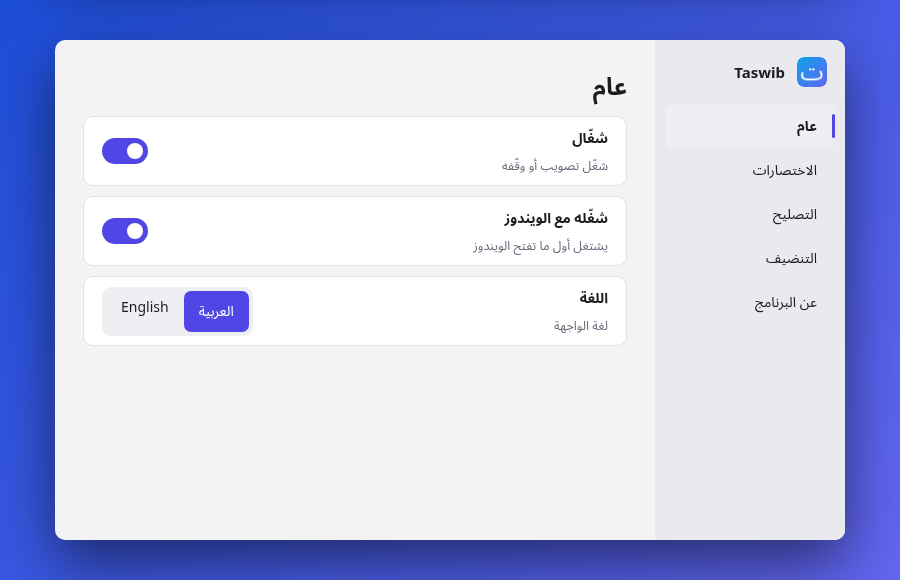
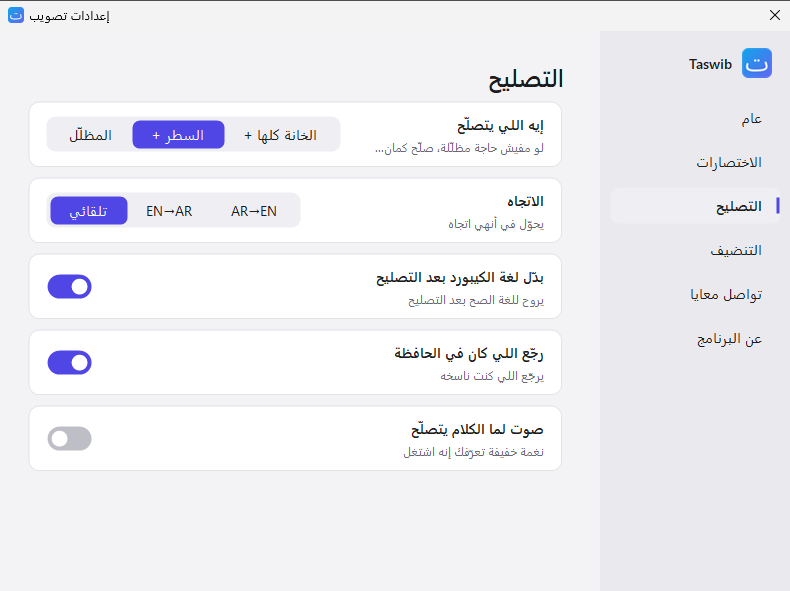
Real screenshots from CI, fix Arabic phone/description bidi, v0.8.0

diff --git a/src/Taswib/Strings.cs b/src/Taswib/Strings.cs
@@ -27,9 +27,9 @@ static class Strings
         ["switch_d"] = ("Jump to the right language after fixing", "يروح للغة الصح بعد التصليح"),
         ["restore_d"] = ("Put back what you had copied", "يرجّع اللي كنت ناسخه"),
         ["punct_t"] = ("Fix punctuation", "صلّح علامات الترقيم"),
-        ["punct_d"] = ("Example:  , ? ;   →   ، ؟ ؛", "مثال:  , ? ;   ←   ، ؟ ؛"),
+        ["punct_d"] = ("Example:  , ? ;   →   ، ؟ ؛", "الفاصلة وعلامة الاستفهام والفاصلة المنقوطة تبقى عربي"),
         ["norm_t"] = ("Unify letters", "وحّد الحروف"),
-        ["norm_d"] = ("أ إ آ → ا  ·  ى → ي  ·  removes tashkeel", "أ إ آ ← ا  ·  ى ← ي  ·  وبيشيل التشكيل"),
+        ["norm_d"] = ("أ إ آ → ا  ·  ى → ي  ·  removes tashkeel", "توحيد الهمزات والألف المقصورة، وإزالة التشكيل"),
         ["about_d"] = ("Fix text typed in the wrong keyboard layout", "صلّح الكلام اللي اتكتب بلغة الكيبورد الغلط"),
         ["github"] = ("GitHub", "GitHub"),
         ["open"] = ("Open", "افتح"),

diff --git a/src/Taswib/Links.cs b/src/Taswib/Links.cs
@@ -5,7 +5,7 @@ static class Links
 {
     public const string Name = "Devien George Francis";
     public const string Email = "deviengeorge99@gmail.com";
-    public const string PhoneDisplay = "+20 128 108 9983";
+    public const string PhoneDisplay = "\u202A+20 128 108 9983\u202C"; // forced left-to-right so Arabic layout does not reverse the digits
     public const string WhatsApp = "https://wa.me/201281089983";
     public const string LinkedIn = "https://linkedin.com/in/deviengeorge";
     public const string LinkedInShort = "linkedin.com/in/deviengeorge";

diff --git a/README.ar.md b/README.ar.md
@@ -82,7 +82,7 @@ powershell -c "irm https://raw.githubusercontent.com/deviengeorge/taswib/main/in
 
 <div dir="rtl">
 
-دوس مرتين على أيقونة الـ tray. التغييرات بتتحفظ فورًا، والشكل فاتح أو غامق حسب الويندوز.
+دوس مرتين على أيقونة الـ tray. التغييرات بتتحفظ فورًا، والشكل فاتح أو غامق حسب الويندوز. صور حقيقية لكل الصفحات في [`docs/screens`](docs/screens) (بتتصوّر أوتوماتيك من تشغيل على ويندوز في CI).
 
 | الصفحة | فيها إيه |
 | --- | --- |

diff --git a/README.md b/README.md
@@ -68,7 +68,7 @@ Prefer no install? Grab the portable **`Taswib.exe`** from the same page.
 
 ![settings](docs/settings.png)
 
-Double-click the tray icon. Changes save instantly. Light and dark follow Windows.
+Double-click the tray icon. Changes save instantly. Light and dark follow Windows. Real screenshots of every page: [`docs/screens`](docs/screens) (captured automatically from a Windows run in CI).
 
 | Page | What's inside |
 | --- | --- |
